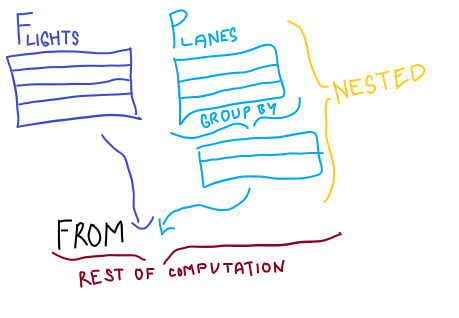
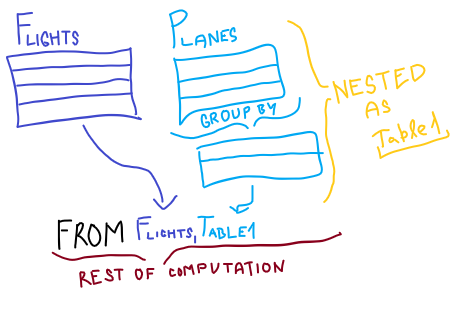
Update nested_queries

Changed region(s): [[0.183, 0.3962, 0.5795, 0.7642], [0.8235, 0.3396, 0.976, 0.5094], [0.793, 0.3113, 0.854, 0.3679]]

diff --git a/data_poznamky/3_nested_queries.md b/data_poznamky/3_nested_queries.md
@@ -6,14 +6,16 @@
 ```sql
 -- vráť súčet pasažierov a lietadlových kapacít pre všetky
 -- spoločnosti, ktoré vlastnia lietadlo
-select Flights.Company, sum(Flights.Passengers), MIN(Q1.TotalCapacity)
+select Flights.Company, sum(Flights.Passengers), MIN(Table1.TotalCapacity)
 from Flights, (select sum(Capacity) as TotalCapacity, Company 
                     from Planes
-                    group by Company) as Q1
+                    group by Company) as Table1
 where Q1.company = Flights.Company
 ```
 
 ![nested](../data_obrazky/nested_queries.png)
 
 - vnárať sa môžem v ```FROM``` aj v ```JOIN```och a v ich podmienkach
+- keď sa vnáram, potrebujem upozorniť ```MS SQL Server Manager```, že chcem pracovať s tabuľkou vytvorenou vo vnorení
+  - preto potrebujem kľúčové slovo ```AS```, ktoré premenuje výsledok vnorenia
 
